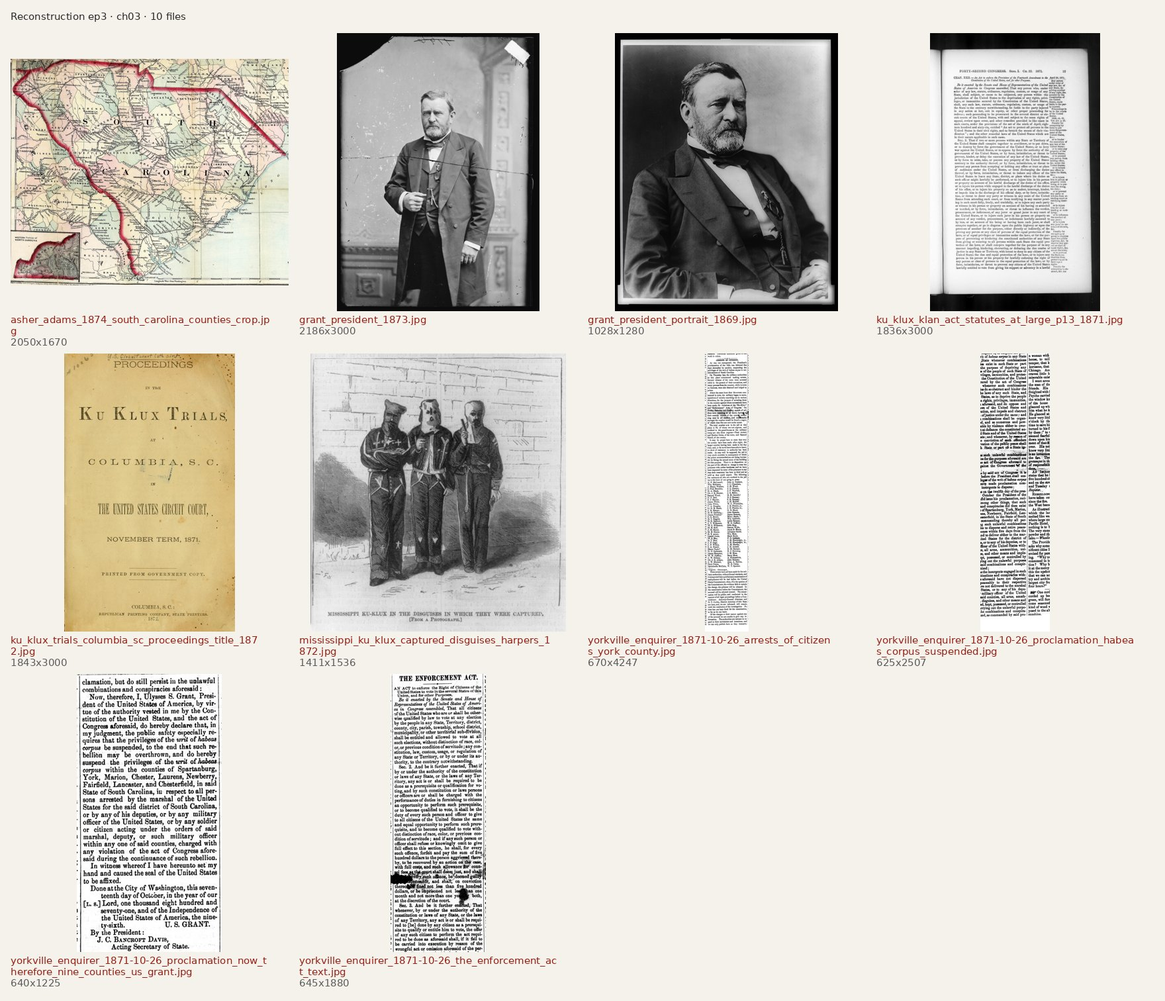
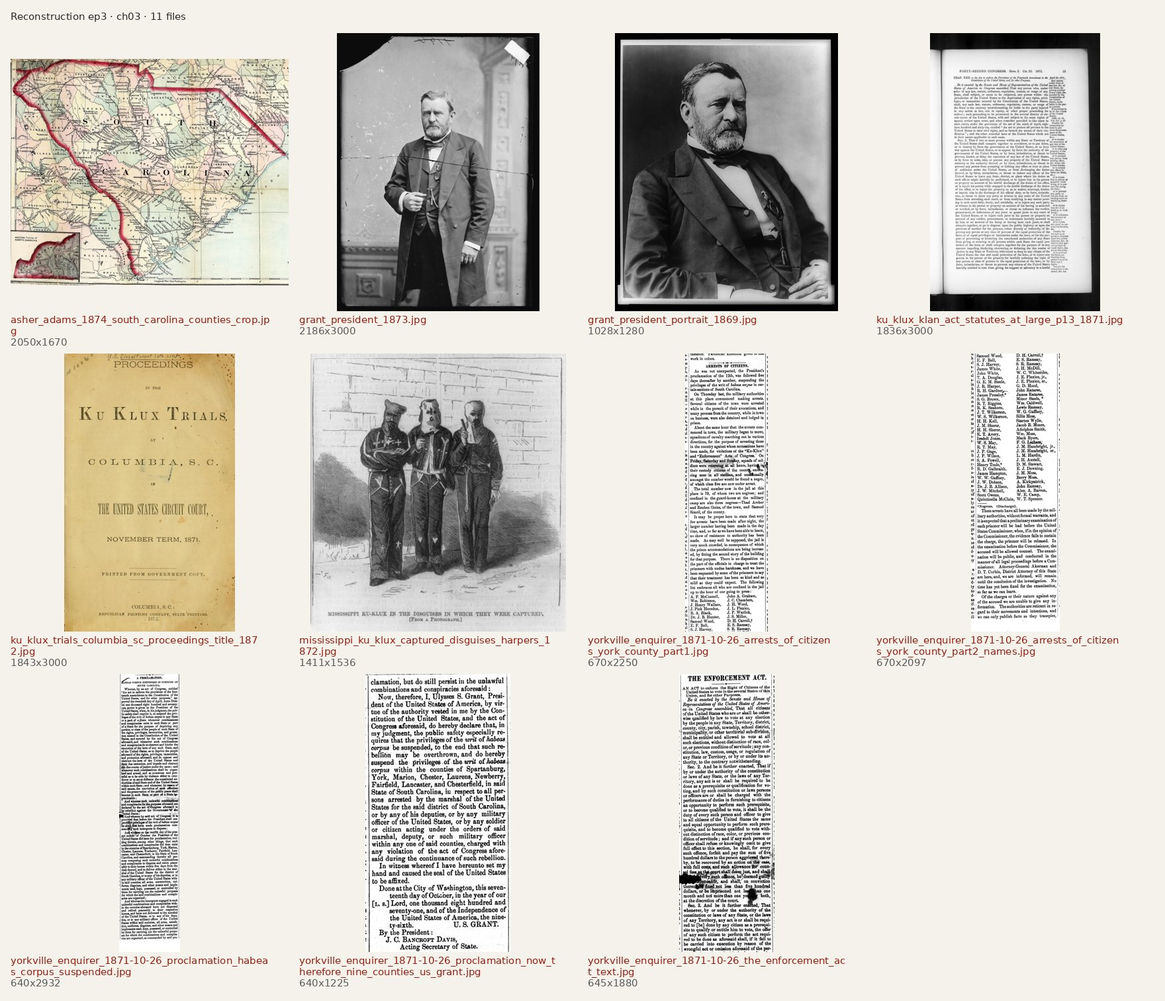
Episode 3 images complete (91)
Every chapter's picks with credits, IMAGES.md and contact sheets;
highlight boxes for the quoted lines of the Caldwell testimony and the
"tired out" Herald column. Fact-check 17 (Ames's telegrams, Grant's
"tired out") confirmed from period printings; flag 20 still unsourced.

Claude-Session: https://claude.ai/code/session_01VWs6QjyLkPcnJxKdxdrfAF

diff --git a/projects/Reconstruction/img/ep3/IMAGES.md b/projects/Reconstruction/img/ep3/IMAGES.md
@@ -1,0 +1,272 @@
+# Reconstruction, Episode 3 ("Redemption"): archival images
+
+91 files, about 100 MB, all public domain / PDM / CC0 / "no known restrictions" (LOC), or pre-1930 printings; every file has a credit in
+`credits_ep3.json` (keys are relative to `img/ep3/`; merge into the project's `credits.json`). Sizes are pixels (w x h); long edge is
+capped at 3000. Contact sheets of every chapter: `contact/chNN.jpg`.
+
+**How the files were made.** Library of Congress prints and photos via `find_images.py get` or the item's IIIF/TIFF (curl). Internet
+Archive book pages via `find_images.py get iabook:<id>:<n>` (`n` is the scan index). Newspaper pages from Chronicling America (IIIF),
+cropped by hand to the column. Supreme Court and statute pages are LOC *U.S. Reports* / govinfo PDFs rendered at 300 dpi. Wikimedia
+Commons rate-limited originals during this run, so six Commons files are 1920 px thumbnails and two are 3840 px thumbnails, marked
+`note` in the credits. Three Smithsonian Open Access (CC0) items came from `ids.si.edu`.
+
+**Highlight boxes for the transcript and telegram treatments.** The testimony pages have a `.json` next to them (`{size, source,
+phrases: {phrase: [[x, y, w, h], ...one box per printed line]}}`) in the image's own pixels, made from the Internet Archive's hOCR. They
+cover every line the narration quotes: "When did he die?", "Thursday night, in the Christmas.", "wanted to die in the open air…",
+"Remember when you kill me…", "Never say you killed a coward", "for obeying Governor Ames; and that was all they had against him".
+The *New York Herald* crops have the same kind of JSON for "tired out" / "annual autumnal outbreaks" (from `phrase_find.py`). The
+boxes are whole printed lines, so trim the swipe to the words.
+
+**Verified for the fact-check table.** Flag 17: Ames telegraphed Grant on Sept 7 and 8, 1875 (*National Republican*, Sept 9); the
+White House answered that the Attorney General decided; Pierrepont's letter of Sept 14 quotes Grant's despatch, "The whole public are
+tired out with these annual autumnal outbreaks in the South, and the great majority are ready now to condemn any interference on the
+part of the Government" (*New York Herald*, Sept 17). Note the printed verb is "are", not "was"; the script's "it said, was 'tired out
+with…'" keeps the quote marks off the verb, so it's fine. Flags 2, 3, 17a and 19 match the printed Senate page word for word.
+
+**Content flags.** Marked **VIOLENCE** (the beat needs it; no close gore) or **PROPAGANDA / CARICATURE** (show as evidence, with
+context). No Klan warning notices or White League posters were taken.
+
+**Already in the repo; use them, don't re-download** (`tests/public/img/wall/`): `firstvote.jpg`, `senators.jpg`, `fifteenth.jpg` (the
+ch02 recap and ch09's "15th Amendment's gaps"); `stevens.jpg` (ch10, "Stevens's plan died with him"); `acres.jpg` (ch10, the
+Edisto/Field Order 15 map, "Most of Edisto Island went back"); `lincoln`, `johnson`, `seward`, `booth`, `pardons`, `stereocard` (only in
+the ch10 zoom-out of the whole wall). The **Edisto petition** ("A home if It be but A few acres"), the last image of the series, is an
+Episode 1 asset and isn't in this folder.
+
+---
+
+## ch01: A Christmas Drink
+
+**Best picks:** `caldwell_testimony_p435_when_did_he_die_1876.jpg` (the transcript page: heading, "Mrs. Margaret Ann Caldwell
+(colored) sworn and examined", "When did he die?—A. Thursday night, in the Christmas."), then `…p438_open_air_coward_1876.jpg` for
+"open air… like a dog" and "Never say you killed a coward". Open on `mississippi_in_1875_title_page_1876.jpg` so the viewer sees it's
+a Senate document. Alternate: `ch07/senate_report_assassination_of_senator_caldwell_1876.jpg` (the committee's own report quotes the
+same Q-and-A under the heading "ASSASSINATION OF SENATOR CALDWELL").
+
+| File | Shows | Source | Size | Use |
+|---|---|---|---|---|
+| `mississippi_in_1875_title_page_1876.jpg` | Title page, *Mississippi in 1875. Report of the Select Committee to Inquire into the Mississippi Election of 1875, with the Testimony and Documentary Evidence*, vol. 1, GPO 1876 | iabook:mississippiin18701unit:6 | 1756x3000 | Establishing shot of the document: "testified under oath to a committee of the U.S. Senate" |
+| `caldwell_testimony_p435_when_did_he_die_1876.jpg` (+ `.json`) | p.435: "MRS. CALDWELL—HINDS COUNTY. Jackson, Miss., June 20, 1876", sworn and examined, "THE WIDOW OF SENATOR CALDWELL", "When did he die?—A. Thursday night, in the Christmas. Him and his brother was killed." | iabook:mississippiin18701unit:554 | 1756x3000 | **Key document.** Transcript treatment; boxes for 7 lines |
+| `caldwell_testimony_p437_christmas_treat_1876.jpg` (+ `.json`) | p.437: "he didn't want any Christmas… told him to drink for a Christmas treat" | iabook:mississippiin18701unit:556 | 1756x3000 | "talked a state senator into a Christmas drink" |
+| `caldwell_testimony_p438_open_air_coward_1876.jpg` (+ `.json`) | p.438: "wanted to die in the open air, and did not want to die like a dog closed up"; Preacher Nelson; "thirty or forty of their loads"; "Remember when you kill me you kill a gentleman and a brave man. Never say you killed a coward." | iabook:mississippiin18701unit:557 | 1756x3000 | **Key document** for the last third of the chapter. **VIOLENCE** in the text only |
+
+**Gaps:**
+- **Charles Caldwell: no portrait found** in LOC, Commons, IA or Smithsonian. Margaret Ann Caldwell: none either. Stand-ins: his
+  name in the printed testimony (p.435 "Charles"); his own words in `ch07/national_republican_1875-09-09_statement_of_senator_caldwell.jpg`;
+  Ep 2's convention-roll card; or a silhouette (no AI face).
+- Clinton itself: no period view found. `ch07/asher_adams_1874_hinds_county_clinton_jackson_crop.jpg` shows Clinton on the railroad between Vicksburg and Jackson.
+  The script's "drawn plan of the Clinton street" would be a graphic, not archival.
+- An optional newspaper account of the killing: the *National Republican*, Jan 1, 1876, p.1, "Shooting Affray in Mississippi"
+  (a Memphis wire story that blames the Caldwells). It wasn't taken: the scan is torn, and the testimony tells the story better.
+
+## ch02: The Night
+
+**Best picks:** `visit_of_the_ku_klux_harpers_1872.jpg` (Klansmen at a cabin door at night: "The Klan wanted the night back"), with
+`two_members_ku_klux_klan_disguises_harpers_1868.jpg` for the robes. Board card THE NIGHT: Visit of the Ku-Klux. Recap: the wall's
+`firstvote`, `senators`, `fifteenth`.
+
+| File | Shows | Source | Size | Use |
+|---|---|---|---|---|
+| `visit_of_the_ku_klux_harpers_1872.jpg` | "Visit of the Ku-Klux", drawn by Frank Bellew, *Harper's Weekly*, Feb 24, 1872: a family by lamplight, a masked man aiming through the door | loc:2001695506 | 3000x2349 | **Board card.** "They rode at night"; "Night mattered". **VIOLENCE** (threat, no blood) |
+| `two_members_ku_klux_klan_disguises_harpers_1868.jpg` | "Two members of the Ku-Klux Klan in their disguises", *Harper's Weekly*, Dec 19, 1868 (full page; the lower engraving is an unrelated English election riot) | loc:97516403 | 2404x3000 | "in masks and robes"; crop to the top figures |
+| `memphis_riot_burning_freedmens_school_house_harpers_1866_crop.jpg` | "Scenes in Memphis… burning a freedmen's school-house", *Harper's Weekly*, May 26, 1866 | loc:94507780 | 1070x840 | "teachers at Black schools, churches". Tag it **Memphis riot, May 1866: a white mob, not the Klan** |
+| `scenes_in_memphis_riot_school_house_burning_harpers_1866.jpg` | The full page; the lower engraving shows Black residents shot down | loc:94507780 | 2407x3000 | Reference only. **VIOLENCE**: use the crop |
+| `ku_klux_report_joint_select_committee_title_1872.jpg` | Title page, *Report of the Joint Select Committee to Inquire into the Condition of Affairs in the Late Insurrectionary States* (the "Ku Klux Report"), 1872 | iabook:reportofjointsel01unit:6 | 1791x3000 | "This was terrorism": Congress's 13-volume record of it. Library stamps on the page |
+
+**Gaps:** Pulaski, Tennessee, and the six founders: no period image. Slave patrols / "white patrols controlled the roads after dark": no
+good engraving found; use the night scene. Night meetings of freedpeople (church, political clubs): none taken; Ep 2 may have a
+Union League image.
+
+## ch03: Protection
+
+**Best picks:** `yorkville_enquirer_1871-10-26_proclamation_now_therefore_nine_counties_us_grant.jpg` (Grant's own words: "do hereby
+suspend the privileges of the writ of habeas corpus within the counties of Spartanburg, York, Marion, Chester, Laurens, Newberry,
+Fairfield, Lancaster, and Chesterfield… U. S. GRANT"), printed in a York County paper. Then `ku_klux_klan_act_statutes_at_large_p13_1871.jpg`
+for "The biggest is often called the Ku Klux Klan Act", and `yorkville_enquirer_1871-10-26_arrests_of_citizens_york_county_part1.jpg` for
+"Soldiers and federal marshals arrested hundreds". **Board card PROTECTION WORKS:** the proclamation crop.
+
+| File | Shows | Source | Size | Use |
+|---|---|---|---|---|
+| `yorkville_enquirer_1871-10-26_proclamation_now_therefore_nine_counties_us_grant.jpg` | The operative paragraph and signature of the proclamation of Oct 17, 1871: the nine counties named, "U. S. GRANT. By the President: J. C. Bancroft Davis" | chronam:sn84026925/1871-10-26 p2 | 640x1225 | **Key document / board card.** "declared nine counties… suspended habeas corpus" |
+| `yorkville_enquirer_1871-10-26_proclamation_habeas_corpus_suspended.jpg` | Headline "A PROCLAMATION. Habeas Corpus Suspended in Portions of South Carolina" and the "Whereas…" clauses citing the Act of April 20, 1871 | same | 640x2932 | Lead-in to the paragraph above; slow scroll |
+| `yorkville_enquirer_1871-10-26_arrests_of_citizens_york_county_part1.jpg` + `…_part2_names.jpg` | Same page: "ARRESTS OF CITIZENS": cavalry squadrons, arrests "for violations of the 'Ku-Klux' and 'Enforcement' Acts", "The total number now in the jail at this place is 79", and the list of names | same | 670x2250 + 670x2097 (one column split in two, overlapping) | "arrested hundreds of men"; the column of names is a strong visual |
+| `yorkville_enquirer_1871-10-26_the_enforcement_act_text.jpg` | Same page: "THE ENFORCEMENT ACT", the text of the Act of May 31, 1870 ("…shall be entitled and allowed to vote at all such elections, without distinction of race, color, or previous condition of servitude") | same | 645x1880 | "Congress passed a series of Enforcement Acts"; ink blots lower down |
+| `ku_klux_klan_act_statutes_at_large_p13_1871.jpg` | *Statutes at Large* vol. 17, p.13: "CHAP. XXII.—An Act to enforce the Provisions of the Fourteenth Amendment… April 20, 1871" (the Ku Klux Klan Act), §2 on conspiracies "by force, intimidation, or threat" | iabook:sim_…statutes-at-large_1871-1873_17:52 | 1836x3000 | "The biggest is often called the Ku Klux Klan Act" |
+| `ku_klux_trials_columbia_sc_proceedings_title_1872.jpg` | Title page, *Proceedings in the Ku Klux Trials at Columbia, S.C., in the United States Circuit Court, November Term, 1871* | iabook:proceedingsinkuk00unit:6 | 1843x3000 | "Federal courts held trials" |
+| `mississippi_ku_klux_captured_disguises_harpers_1872.jpg` | "Mississippi Ku-Klux in the disguises in which they were captured [from a photograph]", *Harper's Weekly*, Jan 27, 1872 | loc:2006687376 | 1411x1536 | "the Klan, as an organization, was largely broken". It's Mississippi, not S.C.; say "captured Klansmen" |
+| `grant_president_1873.jpg` | Ulysses S. Grant, full-length, c.1873 (glass negative; a crack runs across) | loc:2016688109 (TIFF) | 2186x3000 | Grant as President. Mask the crack or crop to half-length |
+| `grant_president_portrait_1869.jpg` | Grant, half-length, seated, 1869 | loc:96522531 | 1028x1280 | Cleaner, smaller alternate |
+| `asher_adams_1874_south_carolina_counties_crop.jpg` | Asher & Adams' *North Carolina and South Carolina*, 1874: South Carolina with the upstate counties (Spartanburg, York, Chester, Union, Laurens, Newberry…) | commons (David Rumsey scan), 3840 px thumbnail, cropped | 2050x1670 | Light up the nine counties as Grant names them |
+
+**Gaps:** No engraving of the 1871 South Carolina arrests or of the Columbia trials found. Amos Akerman (the attorney general who ran the
+prosecutions) isn't named in the script, so he wasn't searched.
+
+## ch04: Colfax
+
+**Best picks:** `louisiana_murders_gathering_the_dead_colfax_harpers_1873_crop.jpg` (Harper's own engraving of the aftermath, May 10,
+1873), then `us_v_cruikshank_92us554_equal_protection_states_only_1876.jpg` for the ruling. **Board card COLFAX:** the engraving crop, with
+the Cruikshank page as the string to EQUAL PROTECTION.
+
+| File | Shows | Source | Size | Use |
+|---|---|---|---|---|
+| `louisiana_murders_gathering_the_dead_colfax_harpers_1873_crop.jpg` | "The Louisiana Murders—Gathering the Dead and Wounded", *Harper's Weekly*, May 10, 1873, p.397: women and children dragging the dead on a sled, bodies in the grass, mounted white men watching | loc:94507783 | 1670x1390 | **Board card.** "How many died? We don't know exactly". **VIOLENCE** (bodies at a distance) |
+| `louisiana_murders_gathering_the_dead_colfax_harpers_1873.jpg` | The full page, with "The Disputed Prize" (an eagle and a hyena over a carcass) beneath | loc:94507783 | 2390x3000 | Document shot with the dated header |
+| `us_v_cruikshank_92us542_first_page_1876.jpg` | *United States v. Cruikshank*, 92 U.S. 542, first page (syllabus) | loc:usrep092542 | 1796x2704 | "The case went all the way to the Supreme Court" |
+| `us_v_cruikshank_92us554_equal_protection_states_only_1876.jpg` | p.554: "The fourteenth amendment prohibits a State from denying to any person within its jurisdiction the equal protection of the laws; but this provision does not… add any thing to the rights which one citizen has under the Constitution against another" (runs onto p.555) | loc:usrep092542 | 1796x2704 | **Key document**: "It doesn't cover private citizens attacking other private citizens". Highlight the last paragraph |
+| `us_v_cruikshank_92us555_1876.jpg` | p.555: the sentence's end ("…to the rights which one citizen has under the Constitution against another. The equality of the rights of citizens is a principle of republicanism…") | loc:usrep092542 | 1796x2704 | Second page of the quote |
+| `nast_union_as_it_was_white_league_kkk_1874.jpg` | Thomas Nast, "The Union as it was / The lost cause, worse than slavery", *Harper's Weekly*, Oct 24, 1874: a White League man and a Klansman shake hands over a terrified Black family | loc:2001696840 | 2423x3000 | The White League / Klan link, Louisiana 1874. Anti-Klan, but Nast's drawing of the family is period caricature: **CARICATURE, show with context** |
+| `julia_hayden_white_league_victim_harpers_1874.jpg` | *Harper's Weekly*, Oct 3, 1874, p.813: "Louisiana and the rule of terror": portrait of Julia Hayden, a Black schoolteacher murdered at Hartsville, Tennessee, in August 1874 (one of the "latest victims of the White Man's League"), above the White League's attack on the police in New Orleans (Sept 14, 1874) | commons, 1920 px thumbnail | 1920x2554 | Optional: Louisiana violence after Colfax. **VIOLENCE** (street battle) |
+| `asher_adams_1874_grant_parish_colfax_crop.jpg` | Asher & Adams' *Louisiana and Mississippi*, 1874: Grant Parish with Colfax, Alexandria, the Red River | commons (MDAH copy), crop | 1000x800 | "the small town of Colfax": a locator pin |
+
+**Gaps:** No period image of the Colfax courthouse (it burned in the massacre). The 1872 disputed Louisiana election (Kellogg vs.
+McEnery) has Nast and Leslie's cartoons, but none were taken. Chief Justice Waite, who wrote *Cruikshank*, isn't named in the script.
+
+## ch05: Tired
+
+**Best picks:** `panic_1873_closing_stock_exchange_leslies.jpg` for the Panic, `nast_probe_away_whiskey_ring_harpers_1876.jpg` for
+the Whiskey Ring, and `civil_rights_act_1875_statutes_at_large_p336_inns_theaters.jpg` for the 1875 Act. **Board card TIRED:** the Panic
+engraving with the Nast barrel pinned beside it.
+
+| File | Shows | Source | Size | Use |
+|---|---|---|---|---|
+| `panic_1873_closing_stock_exchange_leslies.jpg` | "The Great Financial Panic of 1873—Closing the door of the Stock Exchange on its members, Saturday, Sept. 20th", *Frank Leslie's* supplement | loc:99614016 | 1150x1536 | "the Panic of 1873" |
+| `panic_1873_jay_cooke_office_wall_street.jpg` | "Scenes in Wall Street during the panic. Jay Cooke & Company's office", 1873 | loc:90707110 | 1089x1536 | "one of the country's biggest banks collapsed" (Jay Cooke & Co., Sept 18, 1873) |
+| `panic_1873_run_on_fourth_national_bank.jpg` | "The Panic—Run on the Fourth National Bank, No. 20 Nassau Street", *Leslie's*, Oct 4, 1873 | loc:2002723398 | 1185x1536 | "Businesses failed": crowds at a bank |
+| `bellew_panic_sweeping_wall_street_1873.jpg` | Frank Bellew, "Panic, as a health officer, sweeping the garbage out of Wall Street", *The Daily Graphic* cover, Sept 1873 | commons (LOC 2013650090), 3840 px thumbnail | 2115x3000 | Cartoon alternate; a strong full-page cover |
+| `nast_probe_away_whiskey_ring_harpers_1876.jpg` | Nast, "Probe Away!", *Harper's Weekly*, Mar 18, 1876: Uncle Sam probing a "Bourbon Whiskey" barrel with the "St. Louis" keg; Secretary Bristow's notice "These frauds… shall be probed to the very bottom" | commons (DPLA), cropped from the page | 1590x1660 | "The worst was the Whiskey Ring" |
+| `babcock_orville_portrait.jpg` | Orville E. Babcock in uniform (Civil War era) | loc:2004668266 | 1027x1536 | "the President's own private secretary". Wartime photo, so tag "Babcock, c.1865" |
+| `nast_third_term_panic_harpers_1874.jpg` | Nast, "The Third-Term Panic", *Harper's Weekly*, Nov 7, 1874 (the first Republican elephant) | loc:2004682001 | 3000x2260 | "In 1874, voters gave Democrats control of the House". The cartoon is about Grant third-term rumours and appeared just before the vote, so use it as "the 1874 campaign", not as a results image |
+| `civil_rights_act_1875_statutes_at_large_p335.jpg` | *Statutes at Large* vol. 18, p.335: "CHAP. 114.—An act to protect all citizens in their civil and legal rights. March 1, 1875" and its preamble | iabook:sim_…statutes-at-large_1873-1875_18:366 | 1934x3000 | Title of the Act (at the bottom of the page) |
+| `civil_rights_act_1875_statutes_at_large_p336_inns_theaters.jpg` | p.336, §1: "full and equal enjoyment of the accommodations… of inns, public conveyances on land or water, theaters, and other places of public amusement" | iabook:…:367 | 1934x3000 | **Key document**: "hotels, theaters and trains" |
+| `shackle_broken_genius_of_freedom_elliott_civil_rights_1874.jpg` | "The Shackle Broken—by the Genius of Freedom" (E. Sachse & Co., 1874): Rep. Robert Brown Elliott of South Carolina speaking for the civil rights bill in the House, Jan 6, 1874 | loc:2003690777 | 3000x2520 | "one last law": the fight for the bill. Elliott isn't named; caption it by the print's title |
+| `civil_rights_cases_109us3_first_page_1883.jpg` | *Civil Rights Cases*, 109 U.S. 3 (1883), first page: "The 1st and 2d sections of the Civil Rights Act passed March 1st, 1875, are unconstitutional…" | loc:usrep109003 | 1796x2704 | "The Supreme Court struck it down eight years later" |
+
+**Gaps:** No single image says "reformers turned to cleaning up the government"; the Nast barrel covers it.
+
+## ch06: The Bank
+
+**Best picks:** `colored_tennessean_1866-03-24_freedmans_saving_bank_ad.jpg` ("Freedman's Saving Bank. Come one, come all! …The attention of
+soldiers"), then `freedmans_savings_bank_exterior_1880s_sia.jpg`, `douglass_brady_1877.jpg`, and the two dividend checks for "only
+about half… was ever paid back". **Board card THE BANK:** the 16-cent dividend check (no passbook found; see Gaps).
+
+| File | Shows | Source | Size | Use |
+|---|---|---|---|---|
+| `colored_tennessean_1866-03-24_freedmans_saving_bank_ad.jpg` | Ad in the *Colored Tennessean* (Nashville), Mar 24, 1866: "AND deposit your money in one among the best institutions in the United States… THE ATTENTION OF SOLDIERS… is particularly called to this Bank", John J. Cary, Cashier | chronam:sn83025745/1866-03-24 p3 | 1060x930 | **Key document**: "Soldiers saved their pay"; "Many depositors believed the government stood behind it" |
+| `freedmans_savings_bank_exterior_1880s_sia.jpg` | The Freedman's Savings Bank building, Pennsylvania Avenue at Madison Place, Washington, 1880s | si:SIA-MAH-2502-000004 (CC0) | 2404x3000 | The bank. The photo is from the 1880s, after the bank failed (the building later housed the Justice Department) |
+| `freedmans_bank_beaufort_sc_1863.jpg` | Stereograph "Freedman's Bank, Beaufort, So. Ca.": a two-storey house with a picket fence. LOC's date of 1863 must be wrong: the bank wasn't chartered until 1865 | loc:2016645520 | 3000x1540 | A local branch: "Tens of thousands of people opened accounts". Tag "c.1865–74" |
+| `douglass_brady_1877.jpg` | Frederick Douglass, Brady studio, c.1877 (one half of a stereo negative) | loc:2017895330 | 1420x2280 | "Frederick Douglass, to be its president" |
+| `douglass_leads_sumner_mourners_capitol_1874.jpg` | *Frank Leslie's*, March 1874: Douglass leading Black Washingtonians past Charles Sumner's coffin in the Capitol | loc:2012646118 | 2217x3000 | Alternate: Douglass in 1874, the year of the bank; "the most famous Black man in America" |
+| `douglass_letter_freedmans_savings_bank_letterhead_3jul1874_nmaahc.jpg` | Douglass's letter on the bank's "Principal Office" letterhead, July 3, 1874, to J.A.J. Creswell (about the commissioners appointed to wind the bank up), signed "Fredk. Douglass, Prest." | si:NMAAHC-2021_58_2_001 (CC0) | 2397x3000 | **Key document**: "Within months, the bank closed"; Douglass's signature as president |
+| `freedmans_bank_commissioners_dividend_check_1878.jpg` | Check from the "Office of the Commissioners of the Freedman's Savings and Trust Company", March 20, 1878, account 10799, "Pay to the order of Arthur A. Baker, Sixteen Cents", 2nd dividend | loc:scsm000519 | 2442x1098 | **Board card.** "only about half of what they were owed was ever paid back". The LOC page has no rights statement; it's an 1878 document, so public domain by age |
+| `freedmans_bank_dividend_check_1880s_nmaahc.jpg` | Another commissioners' dividend check (New York branch, "2nd dividend"), 1880s per the museum | si:NMAAHC-2021_9_001 (CC0) | 3000x1427 | Alternate; two small checks side by side |
+
+**Gaps:** **No passbook found** in LOC, Commons or Smithsonian Open Access (NMAAHC holds bank material, but no CC0 passbook image
+turned up). The board card uses the dividend check instead. The depositor signature registers (National Archives) weren't searched.
+
+## ch07: Mississippi, 1875
+
+**Best picks:** For the telegram thread, `national_republican_1875-09-09_ames_telegrams_to_grant.jpg` (Ames → Grant, Sept 7; the
+White House reply, Sept 8; Ames's formal call, Sept 8) and `ny_herald_1875-09-17_tired_out_column.jpg` (Pierrepont's letter, Sept 14,
+quoting Grant: "tired out with these annual autumnal outbreaks"). Ames: `ames_hon_adelbert_ames_of_miss_brady_handy.jpg`. For the
+transcript, `caldwell_testimony_p439_obeying_governor_ames_1876.jpg`. **Board card MISSISSIPPI, 1875:** the Herald column, with the p.439
+page beside it.
+
+| File | Shows | Source | Size | Use |
+|---|---|---|---|---|
+| `national_republican_1875-09-09_ames_telegrams_to_grant.jpg` | "GOV. AMES TO THE PRESIDENT": Ames's telegram, Jackson, Sept 7, 1875, "To His Excellency U. S. Grant… Domestic violence in its most aggravated form exists in certain parts of this State…"; the Executive Mansion reply, Sept 8 (Levi P. Luckey); "OFFICIAL CALL FOR FEDERAL ASSISTANCE", Ames, Sept 8 | chronam:sn86053573/1875-09-09 p1 | 790x1980 | **Key document** for "He telegraphed President Grant for troops". Cut it into three slips for the message thread |
+| `ny_herald_1875-09-17_tired_out_column.jpg` (+ `.json`) | *New York Herald*, Sept 17, 1875: "THE MISSISSIPPI AFFAIR. The letter of the Attorney General to Governor Ames—President Grant's appreciation of public sentiment…", Pierrepont, Sept 14: "The whole public are tired out with these annual autumnal outbreaks in the South…" | chronam:sn83030313/1875-09-17 p3 | 1230x2059 | **Key document**: the reply slip. Boxes for "tired out" and "annual autumnal outbreaks" |
+| `ny_herald_1875-09-17_pierrepont_letter.jpg` (+ `.json`) | The same letter in a wider crop with the neighbouring column | same | 2455x2570 | Alternate framing |
+| `national_republican_1875-09-09_mississippi_massacre_headline.jpg` | Headline stack: "MISSISSIPPI MASSACRE. Details of the Great Diabolism. Another Fatal Riot at Satartia. Gov. Ames Demands Federal Aid" | chronam:sn86053573/1875-09-09 p1 | 690x460 | The Clinton riot as the news broke |
+| `national_republican_1875-09-09_statement_of_senator_caldwell.jpg` | Same page: "STATEMENT OF STATE SENATOR CALDWELL" on the Clinton rally ("Judge Johnson had spoken about one hour to an audience of over two thousand… I remarked, 'My young friend, for God's sake, don't disturb the meeting'") | same | 790x1230 | **Caldwell's own words**: "about 2,000 Black Mississippians… gathered for a Republican rally" |
+| `national_republican_1875-09-09_masthead.jpg` | *National Republican* masthead, Washington, Thursday, Sept 9, 1875 | same | 2793x530 | Header for the newspaper slips |
+| `caldwell_testimony_p439_obeying_governor_ames_1876.jpg` (+ `.json`) | Senate report p.439: "…they intended to kill him because for carrying the militia to Edwards; for obeying Governor Ames; and that was all they had against him." Also "THREATS AGAINST MR. CALDWELL AFTER THE CLINTON RIOT" | iabook:mississippiin18701unit:558 | 1756x3000 | **Key document**: "His wife told the Senate why…" |
+| `senate_report_assassination_of_senator_caldwell_1876.jpg` (+ `.json`) | The committee's report, p.XXI: "ASSASSINATION OF SENATOR CALDWELL. An equally horrid crime was the murder of Senator Caldwell and his brother, at Clinton, Christmas night…", then her testimony quoted | iabook:mississippiin18701unit:26 | 1756x3000 | Alternate transcript page (works for ch01 too) |
+| `ames_hon_adelbert_ames_of_miss_brady_handy.jpg` | "Hon. Adelbert Ames of Miss.", Brady-Handy, c.1870–74 (seated, civilian dress) | loc:2017893690 | 2343x3000 | **Main Ames portrait** (his Mississippi years) |
+| `ames_maj_gen_brady_1860s.jpg` | Maj. Gen. Adelbert Ames, Brady, 1860s | loc:2018666388 | 1903x3000 | Callback to Ep 2 ("the carpetbagger from Maine") |
+| `pierrepont_attorney_general_brady_handy.jpg` | "Pierrepont, Hon. Edwards, Attny General—Grant Adm.", Brady-Handy | loc:2017894635 | 2444x3000 | "Grant's attorney general" (not named in the script) |
+| `frost_of_course_he_wants_to_vote_democratic_harpers_1876.jpg` | A. B. Frost, "'Of course he wants to vote the Democratic ticket!'", *Harper's Weekly*, Oct 21, 1876: armed white Democrats holding a pistol to a Black voter's head | commons, 1920 px thumbnail | 1920x1345 | "Armed clubs of white men… the Mississippi Plan". A Republican cartoon against the shotgun policy, drawn with period caricature: **CARICATURE + VIOLENCE (threat), show with context**. Dated 1876, a year later; tag it |
+| `asher_adams_louisiana_mississippi_map_1874.jpg` | Asher & Adams' *Louisiana and Mississippi*, 1874 | commons (MDAH), 3840 px thumbnail | 2032x3000 | Map for Mississippi (and Louisiana in ch04) |
+| `asher_adams_1874_hinds_county_clinton_jackson_crop.jpg` | Detail: Hinds County with Clinton, Jackson, Raymond, Edwards, Bolton and Vicksburg on the railroad | same, crop | 1100x800 | "just outside Clinton"; "men from a nearby town" (the Vicksburg train); "deliver guns" to Edwards |
+
+**Gaps:**
+- Ames's telegrams and Pierrepont's letter survive here as **newspaper printings**, not the original telegraph forms. For the "real
+  telegram slips" look, set the printed text on period-style slips and tag them "text as printed in the *National Republican*, Sept 9,
+  1875" and "*New York Herald*, Sept 17, 1875".
+- No image of the Clinton rally, the militia company, Ames's peace conference, or Election Day 1875.
+- **Fact-check flag 20** (Republican votes of 12, 7, 4, 2 and 0 in Black-majority counties): not found in a scan yet. The county
+  returns should be in the Senate report's documentary volume (vol. 2), but no page was found this run. Keep the line as words; don't
+  put numbers on screen.
+- "Redeemers": no image needed.
+
+## ch08: Two Sets of Results
+
+**Best picks:** The portraits `hayes_president_brady.jpg` and `tilden_portrait_1876.jpg`; `presidential_elections_chart_1877_crop_1876_election_map.jpg`
+(a period map printed with the result: "Hayes… received 185 votes. Tilden… received 184 votes… Disputes… over the votes of South
+Carolina, Florida, Louisiana and Oregon… decided by a Commission"); `electoral_commission_secret_session_candlelight_leslies_1877.jpg`;
+`nast_a_truce_not_a_compromise_1877.jpg` for "Tilden or Blood"; and `louisiana_withdrawal_federal_troops_state_house_april_1877.jpg` for
+the ending. **Board card TWO SETS OF RESULTS:** the 1876 map crop (the drawn 184/165 tally sits on top).
+
+| File | Shows | Source | Size | Use |
+|---|---|---|---|---|
+| `hayes_president_brady.jpg` | Rutherford B. Hayes, Brady, c.1870–80 | loc:2017893107 | 2080x3000 | Hayes portrait (board close-up) |
+| `tilden_portrait_1876.jpg` | Samuel J. Tilden, engraved portrait, 1876 | loc:2018697211 | 2322x3000 | Tilden portrait |
+| `grand_national_republican_banner_hayes_1876.jpg` | Currier & Ives, "Grand National Republican Banner": Hayes and Wheeler, 1876 | loc:2003656594 | 2439x3000 | "Republican Rutherford B. Hayes…" |
+| `grand_national_democratic_banner_tilden_1876.jpg` | Currier & Ives, "Grand National Democratic Banner": Tilden and Hendricks, 1876 | loc:2003656575 | 2359x3000 | "…against Democrat Samuel Tilden". A matched pair with the one above |
+| `presidential_elections_chart_1877_crop_1876_election_map.jpg` | H. C. Donnell, *The Presidential Elections of the United States* (San Francisco, 1877): the 1876 panel and its caption (185 to 184; the disputed states "referred to, and decided by a Commission") | loc:2012586608 (IIIF region at full resolution) | 3000x2057 | **Board card / key image** |
+| `presidential_elections_of_the_united_states_chart_1877.jpg` | The whole chart, 1789–1876 | loc:2012586608 | 2897x2379 | Zoom-from context |
+| `electoral_commission_secret_session_candlelight_leslies_1877.jpg` | *Leslie's*, 1877: "Washington, D.C.—The Electoral Commission holding a secret session by candle-light, on the Louisiana question" | loc:89712291 | 1536x942 | "a special commission of 15 men… voted along party lines, 8 to 7" |
+| `nast_a_truce_not_a_compromise_1877.jpg` | Nast, "A Truce—Not a Compromise, but a Chance for High-Toned Gentlemen to Retire Gracefully from Their Very Civil Declarations of War", *Harper's Weekly*, 1877: a hand on a revolver over "Tilden or Blood" and "Civil War" handbills | loc:93510088 | 3000x2122 | "For months, nobody knew who the next president would be" |
+| `south_carolina_deadlock_state_legislature_columbia_leslies_1876.jpg` | *Leslie's*, December 1876: "South Carolina—The November election—The dead-lock in the state legislature at Columbia" (two rival Houses) | loc:98518306 | 2413x3000 | "both parties claimed to have won… Two sets of results". Leslie's draws the Black legislators with some caricature: **check before close-ups** |
+| `political_farce_of_1876.jpg` | Broadside "The Political Farce of 1876… The Two Negroes and Ten Whites who defeated the will of the American people", 1877, attacking the Louisiana Returning Board and the commission | loc:2006677483 | 3000x2398 | **PROPAGANDA (Democratic, racial framing): evidence only, with context**, if the beat wants how Democrats saw it |
+| `hayes_oath_of_office_1877.jpg` | Stereograph: Hayes's inauguration at the Capitol, March 5, 1877 | loc:96506818 | 2523x1564 | "Hayes becomes president". Crop one half of the pair |
+| `louisiana_withdrawal_federal_troops_state_house_april_1877.jpg` | 1877 engraving (LOC): "Louisiana—The withdrawal of the federal troops from the State House in New Orleans, at noon, on April 24th" | loc:93505869 | 3000x2394 | **Key image** for "Hayes ordered the soldiers guarding the statehouses… to leave" |
+
+**Gaps:** The Fassett painting *The Florida Case before the Electoral Commission* (1879, U.S. Senate collection, public domain) exists
+online only as a 610 px Commons copy; get a large file from senate.gov if it's wanted. No image of the South Carolina withdrawal
+(April 10, 1877). The original rival electoral certificates (National Archives) weren't searched. Dashed string "no proof of a written
+deal": no image needed.
+
+## ch09: Voteless
+
+**Best picks:** `louisiana_registered_voters_by_race_1896_1902report.jpg` and `louisiana_grandfather_clause_registrations_by_race_1902.jpg`
+(the state's own tables), `louisiana_constitution_1898_p79_sec5_grandfather_clause.jpg`,
+`mississippi_constitution_1890_sec243_poll_tax_sec244_reading_test.jpg`, and `russell_lee_colored_water_cooler_oklahoma_city_1939.jpg`
+for Jim Crow (tag it as later). **Board:** VOTELESS rewritten on the petition (no new image).
+
+| File | Shows | Source | Size | Use |
+|---|---|---|---|---|
+| `mississippi_constitution_1890_article12_franchise_sec241.jpg` | Mississippi Constitution of 1890, Art. 12 "Franchise", §§240–242 (§241: an elector must have "paid… all taxes… on or before the first day of February") | iabook:cu31924005756956:42 | 1546x2496 | The first state to do it. Highlight the tax-payment clause |
+| `mississippi_constitution_1890_sec243_poll_tax_sec244_reading_test.jpg` | §243 "A uniform poll tax of two dollars"; §244 every elector must "be able to read any section of the constitution of this State; or… understand the same when read to him, or give a reasonable interpretation thereof" | iabook:cu31924005756956:43 | 1546x2496 | **Key document**: "A poll tax" and "A literacy test… graded by white officials" (the understanding clause) |
+| `louisiana_constitution_1898_p77_art197_suffrage.jpg` | Louisiana Constitution of 1898, Art. 197 "Suffrage and Elections" begins | iabook:constitutionsta02louigoog:79 | 1878x3000 | Lead-in. Google scan with a small "Digitized by Google" mark at the bottom; crop it |
+| `louisiana_constitution_1898_p78_written_application_literacy_test.jpg` | §3: the applicant must fill out the registration form "entirely written, dated and signed by him… without assistance"; §4: the $300 property alternative | iabook:…:80 | 1878x3000 | Literacy test, Louisiana version |
+| `louisiana_constitution_1898_p79_sec5_grandfather_clause.jpg` | §5: "No male person who was on January 1st, 1867… entitled to vote… and no son or grandson of any such person… shall be denied the right to register and vote… by reason of his failure to possess the educational or property qualifications"; the oath "(or, I am the son, or grandson)" | iabook:…:81 | 1878x3000 | **Key document**: "A grandfather clause" |
+| `louisiana_registered_voters_by_race_1896_1902report.jpg` | *Report of the Secretary of State* (Louisiana, 1902), p.554: "Statement Registered Voters, 1896", by parish, with columns for white and colored voters | iabook:reportofsecretar00loui:561 | 1878x3000 | **"In 1896, Louisiana had about 130,000 Black men registered"**. There's no totals row on this page, so don't show 130,344 as if printed here |
+| `louisiana_registered_voters_by_race_jan1898_1902report.jpg` | Same report, p.555: "Statement of Registered Voters on January 1, 1898" (after the 1896 registration law): totals 87,240 registered, 12,902 colored | iabook:…:562 | 1878x3000 | The middle step: 130,344 → 12,902 → 1,342 |
+| `louisiana_grandfather_clause_registrations_by_race_1902.jpg` | Same report, p.558: "Number of Persons Listed and Qualified for Registration under Section 5 of Article 212 [sic; it is Art. 197] of the Constitution of 1898": **White 37,877, Colored 111** | iabook:…:565 | 1878x3000 | **Key document**: "Which, in the South, meant white men." |
+| `poll_tax_receipt_jefferson_county_alabama_1920.jpg` | Poll tax receipt for Rosa Boyles, Jefferson County, Alabama, Oct 22, 1920 | commons, 1920 px thumbnail (from PNG) | 1920x893 | A real receipt; "a fee you had to pay to vote". Tag 1920 (later) |
+| `russell_lee_colored_water_cooler_oklahoma_city_1939.jpg` | Russell Lee (FSA), a man drinking at a "Colored" water cooler, streetcar terminal, Oklahoma City, July 1939 | commons, 1920 px thumbnail | 1920x1291 | "water fountains… Jim Crow laws". **Later photo (1939); tag it** |
+| `bubley_colored_waiting_room_sign_1943.jpg` | Esther Bubley (OWI), "Colored Waiting Room" sign, bus station, 1943 | commons | 1433x1503 | "waiting rooms". **Later photo (1943); tag it** |
+
+**Gaps:** The **1904 figure (1,342)** isn't in a scan here (the 1902 report stops at 1898 and 1900); it needs the 1904 Louisiana
+Secretary of State report or a period compilation. No pre-1900 Jim Crow photographs. A "Jim Crow car" engraving wasn't found in
+copyright-safe sources. Pre-1930 poll-tax receipts from Mississippi or Louisiana weren't found; the Alabama 1920 one stands in.
+
+## ch10: A Few Acres
+
+**Best picks:** `primary_school_freedmen_vicksburg_harpers_1866.jpg` ("Schools"), `colored_tennessean_1866-03-24_information_wanted_column.jpg`
+("Families that found each other"), `heroes_of_the_colored_race_1881.jpg` ("A generation of Black leaders"), then
+`brown_v_board_347us495_inherently_unequal_1954.jpg` and `voting_rights_act_1965_79stat437_enforce_fifteenth.jpg` ("The words…
+were still there, waiting"). The series ends on the Edisto petition (Ep 1's asset).
+
+| File | Shows | Source | Size | Use |
+|---|---|---|---|---|
+| `primary_school_freedmen_vicksburg_harpers_1866.jpg` | "Primary School for Freedmen, in charge of Mrs. Green, at Vicksburg, Mississippi", *Harper's Weekly*, 1866 | loc:2023632559 | 3000x2337 | "Schools." (Mississippi, so it ties to Caldwell) |
+| `misses_cookes_school_room_freedmens_bureau_richmond_1866.jpg` | *Leslie's*, 1866: "The Misses Cooke's school room, Freedman's Bureau, Richmond, Va." (full page) | loc:98510871 | 2404x3000 | Alternate school scene; crop to the top engraving |
+| `colored_tennessean_1866-03-24_information_wanted_column.jpg` | "Information Wanted" column, *Colored Tennessean*, Mar 24, 1866: Hannah Barnett seeking her daughter Martha ("was sold to Mr. John James, Nashville… about nine years ago"), Robert Williams seeking his son Daniel, a family of five children… | chronam:sn83025745/1866-03-24 p3 | 1050x2860 | **"Families that found each other"**: slow scroll |
+| `heroes_of_the_colored_race_1881.jpg` | "Heroes of the Colored Race" (1881 chromolithograph): Blanche K. Bruce, Frederick Douglass, Hiram Revels, with vignettes | loc:00651114 | 3000x2210 | "A generation of Black leaders" (Revels and Bruce were Mississippi's senators) |
+| `brown_v_board_347us495_inherently_unequal_1954.jpg` | *Brown v. Board of Education*, 347 U.S. 483 (1954), p.495: "Separate educational facilities are inherently unequal… deprived of the equal protection of the laws guaranteed by the Fourteenth Amendment" | loc:usrep347483 | 1796x2704 | **Key document**: "In 1954…" |
+| `voting_rights_act_1965_79stat437_enforce_fifteenth.jpg` | Public Law 89-110, 79 Stat. 437, Aug 6, 1965: "AN ACT To enforce the fifteenth amendment to the Constitution of the United States" | govinfo:STATUTE-79-Pg437 | 1899x2841 | **Key document**: "Congress finally put real force behind the 15th" (the title says it) |
+| `johnson_king_voting_rights_act_signing_1965.jpg` | Yoichi Okamoto (White House), President Johnson hands Martin Luther King Jr. a pen at the Voting Rights Act signing, Aug 6, 1965 | commons, 1920 px thumbnail | 1920x1285 | Optional. A 1965 president, not a modern politician, but the document alone may be enough |
+
+**Gaps:** "Churches": no good period image of a freedpeople's church (try "First African Baptist Church" or Harper's "Prayer meeting"
+next time). LOC's 1954 (Nettie Hunt) and 1965 Selma photos are marked "publication may be restricted" (New York World-Telegram) and
+weren't taken. The Edisto petition and the three amendments' texts are Ep 1–2 assets.
